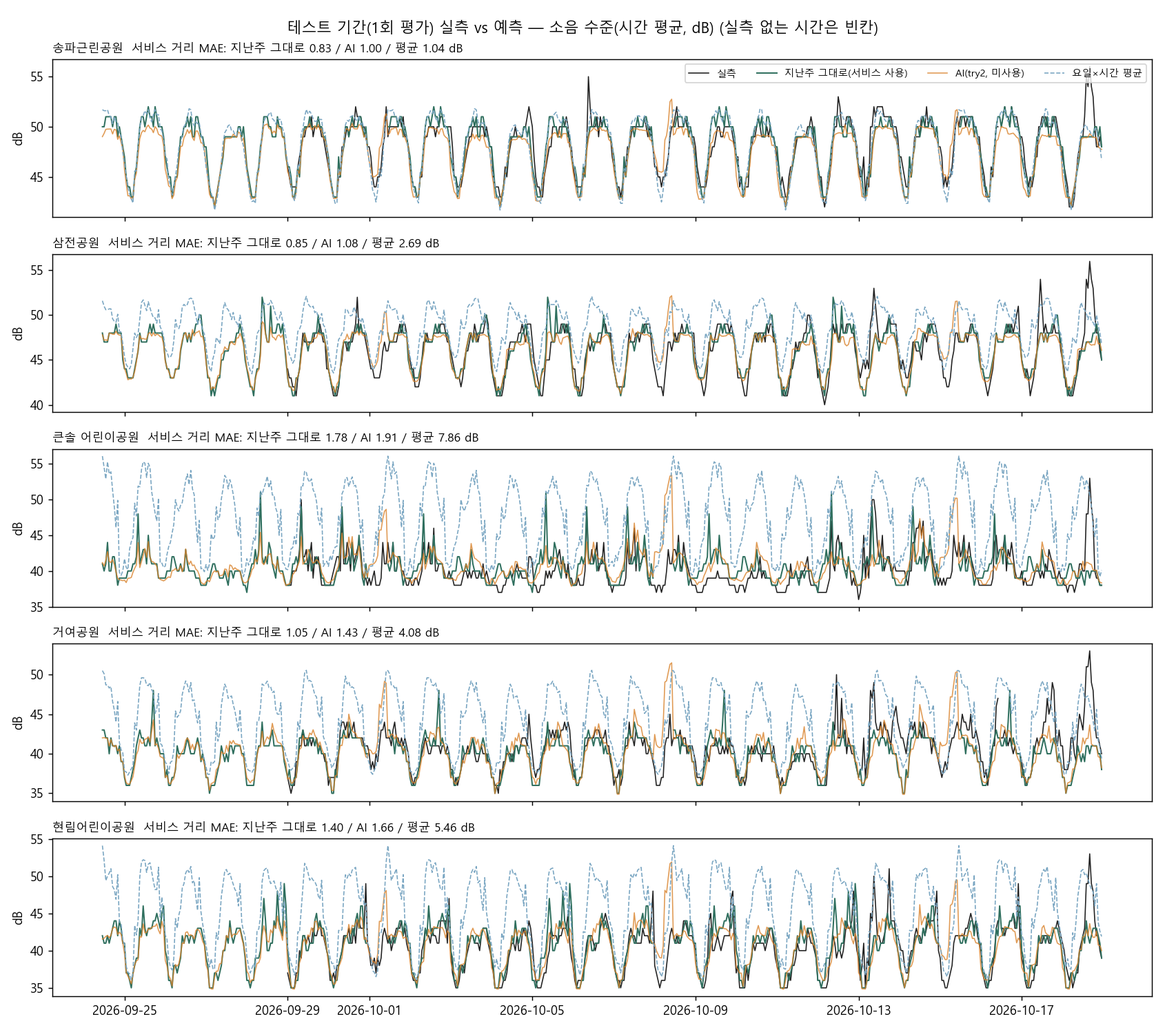
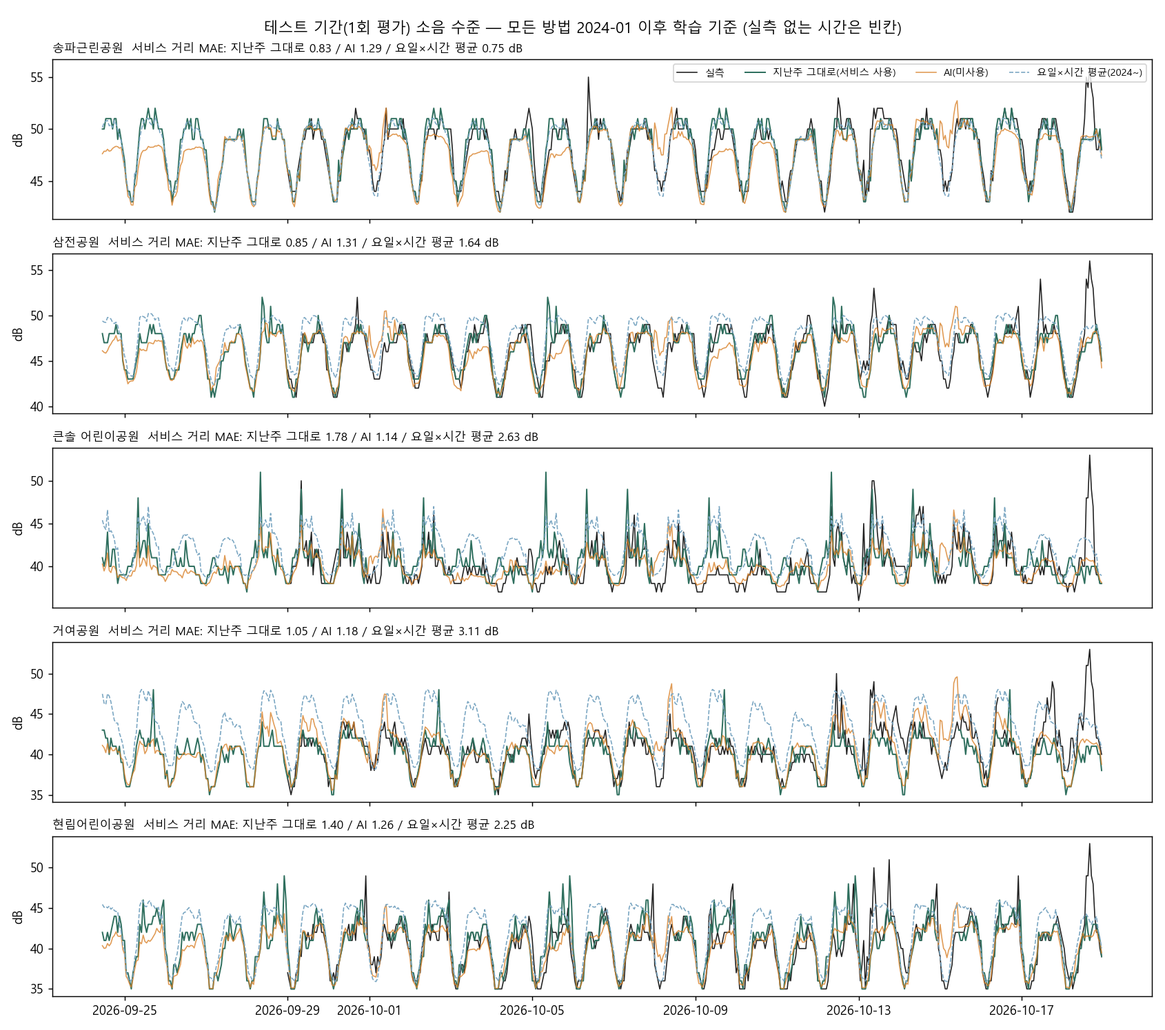
성능 표 기준 통일(2024-01 이후), 카드 2층 구조와 한 줄 요약, 쉬운 말

diff --git a/public/app.js b/public/app.js
@@ -104,23 +104,44 @@ function render() {
     .map((r, i) => {
       const s = r.site, f = r.f;
       const confL = s.confidence.level, confS = s.confidence.spike;
+      const spikeName = i === 0 ? "돌발 소음 지수 <small>(갑자기 커지는 소리 정도)</small>" : "돌발 소음 지수";
       return `<li class="rec">
+        <p class="summary">${summaryLine(f)}</p>
         <div class="rec-head"><span class="rank">${i + 1}</span><span class="rec-title">${s.name}</span>
           <span class="rec-time">${fmtTime(f.t)}</span></div>
         <div class="facts">
-          ${fact("pred", "돌발 소음 지수 <span class='tag pred'>AI 예측</span>", `${n1(f.spike)} dB`, `테스트 오차(MAE) ±${s.mae.spike.used.toFixed(1)} dB · 신뢰도 <span class="tag conf-${confS}">${confS}</span>`)}
-          ${fact("obs", "소음 수준 <span class='tag obs'>지난주 실측</span>", `${n1(f.level)} dB`, `${fmtDay(sourceDay(f.t.slice(0, 10)))} 같은 시각 실측 · 이 방식의 테스트 오차 ±${s.mae.level.used.toFixed(1)} dB · 신뢰도 <span class="tag conf-${confL}">${confL}</span>`)}
+          ${fact("pred", `${spikeName} <span class='tag pred'>AI 예측</span>`, `${n1(f.spike)} dB · ${grade("spike", f.spike)}`, `신뢰도 <span class="tag conf-${confS}">${confS}</span>`)}
+          ${fact("obs", "소음 수준 <span class='tag obs'>지난주 실측</span>", `${n1(f.level)} dB · ${grade("level", f.level)}`, `${fmtDay(sourceDay(f.t.slice(0, 10)))} 같은 시각 실측 · 신뢰도 <span class="tag conf-${confL}">${confL}</span>`)}
           ${fact("obs", "최근 실측 <span class='tag obs'>실측</span>", `평균 ${s.recent.level} · 최대 ${s.recent.max} dB`, `${fmtTime(s.recent.t)} 측정`)}
           ${fact("obs", "최근 1주 평균 <span class='tag obs'>실측</span>", `${n1(s.recent_week.level)} dB · 돌발 ${n1(s.recent_week.spike)} dB`, `${lwk} 7일`)}
-          ${fact("", "센서 위치", `공원 경계에서 ${Math.round(s.dist_m)}m`, `${s.sensor_address} (${s.sensor_serial})`)}
-          ${fact("", "부담 점수", r.score.toFixed(1), `= ${WEIGHT[cond.level]}×(${n1(f.level)}−35) + ${WEIGHT[cond.spike]}×${n1(f.spike)}`)}
+          ${fact("", "센서 위치", `공원 경계에서 ${Math.round(s.dist_m)}m`, "")}
         </div>
         ${dayBars(s, cond, r.hour)}
-        <p class="why">돌발 소음 지수는 단순 요일·시간 평균으로는 같은 시각 ${f.spike_baseline == null ? "<span class='tag na'>정보 부족</span>" : `${n1(f.spike_baseline)} dB`}입니다.
-        이 장소의 돌발 지수 테스트 오차는 AI ${s.mae.spike.used.toFixed(2)} dB, 단순 평균 ${s.mae.spike.baseline.toFixed(2)} dB였습니다.</p>
+        <details class="more">
+          <summary>자세히 보기</summary>
+          <div class="facts">
+            ${fact("pred", "돌발 소음 지수 평균 오차", `AI ±${s.mae.spike.used.toFixed(2)} dB`, `같은 기간 요일·시간 평균 ±${s.mae.spike.baseline.toFixed(2)} dB (테스트 기간, 이 장소)`)}
+            ${fact("obs", "소음 수준 평균 오차", `지난주 그대로 ±${s.mae.level.used.toFixed(2)} dB`, `요일·시간 평균 ±${s.mae.level.baseline.toFixed(2)} · AI ±${s.mae.level.ai.toFixed(2)} dB (테스트 기간, 이 장소)`)}
+            ${fact("", "단순 평균이었다면", `돌발 ${f.spike_baseline == null ? "정보 부족" : n1(f.spike_baseline) + " dB"} · 소음 ${f.level_baseline == null ? "정보 부족" : n1(f.level_baseline) + " dB"}`, "같은 요일·시각의 2024년 이후 평균")}
+            ${fact("", "부담 점수", r.score.toFixed(1), `= ${WEIGHT[cond.level]}×(${n1(f.level)}−35) + ${WEIGHT[cond.spike]}×${n1(f.spike)}`)}
+            ${fact("", "센서", s.sensor_serial, s.sensor_address)}
+          </div>
+        </details>
       </li>`;
     })
     .join("");
+}
+
+// 보호자용 등급: 테스트 기간 실측 분포의 1/3·2/3 분위값 기준(grade_cuts)
+function grade(t, v) {
+  if (v == null) return "정보 부족";
+  const [a, b] = DATA.grade_cuts[t];
+  return v < a ? "적은 편" : v < b ? "보통" : "많은 편";
+}
+
+function summaryLine(f) {
+  const lv = grade("level", f.level), sp = grade("spike", f.spike);
+  return `소리 크기 <b>${lv}</b>, 갑자기 커지는 소리 <b>${sp}</b>`;
 }
 
 function renderPerf() {
@@ -129,17 +150,17 @@ function renderPerf() {
   const sp = T.spike, lv = T.level;
   const gh = "https://github.com/neogeo0701/calm-map-sdot/blob/main/";
   $("#perf").innerHTML = `
-    <p class="muted">시간순으로 학습·검증·테스트를 나눴습니다. 검증 ${DATA.split.val[0].slice(5, 10)}~${DATA.split.val[1].slice(5, 10)}, 테스트 ${DATA.split.test[0].slice(5, 10)}~${DATA.split.test[1].slice(5, 10)}.
-    방법은 검증 구간으로만 골랐고, 테스트는 마지막에 한 번만 평가했습니다. 아래는 테스트 결과로, 화면과 같은 조건(데이터 마지막 시각에서 ${DATA.horizon_hours[0]}~${DATA.horizon_hours[1]}시간 뒤)의 평균 절대 오차(MAE, dB, 낮을수록 정확)입니다. 5개 센서, 실측 ${sp.n}시간.</p>
+    <p class="muted">시간순으로 학습·검증·테스트를 나눴습니다. 학습 ${DATA.spike_history_start.slice(0, 7)}~, 검증 ${DATA.split.val[0].slice(5, 10)}~${DATA.split.val[1].slice(5, 10)}, 테스트 ${DATA.split.test[0].slice(5, 10)}~${DATA.split.test[1].slice(5, 10)}.
+    방법은 검증 구간으로만 골랐고, 테스트는 마지막에 한 번만 평가했습니다. 아래는 테스트 결과로, 화면과 같은 조건(데이터 마지막 시각에서 ${DATA.horizon_hours[0]}~${DATA.horizon_hours[1]}시간 뒤)의 <b>평균 오차</b>(dB, 예측과 실제의 차이 평균, 낮을수록 정확)입니다. 모든 방법이 같은 학습 기간(2024-01 이후)·같은 테스트 시간을 씁니다. 5개 센서, 실측 ${sp.n}시간.</p>
     <table><thead><tr><th>대상</th><th>AI</th><th>요일·시간<br>평균</th><th>직전 4주<br>평균</th><th>지난주<br>그대로</th></tr></thead>
     <tbody>
     <tr><td>돌발 소음 지수<br><small>화면: AI</small></td>${c(sp.ai, true)}${c(sp.baseline)}${c(sp.ref_recent4w_mean)}${c(sp.ref_last_week_naive)}</tr>
     <tr><td>소음 수준<br><small>화면: 지난주 그대로</small></td>${c(lv.ai)}${c(lv.baseline)}${c(lv.ref_recent4w_mean)}${c(lv.ref_last_week_naive, true)}</tr>
     </tbody></table>
-    <p class="muted"><b>AI의 역할은 돌발 소음 지수 예측입니다.</b> 돌발 지수 AI는 ${DATA.spike_history_start.slice(0, 7)}부터 약 34개월 실측으로 학습했고, 월·주차·전년 같은 시기 값 같은 계절 정보도 씁니다.
-    네 방법 중 오차가 가장 작지만, 같은 긴 기간으로 만든 요일·시간 평균과의 차이는 ${(sp.baseline - sp.ai).toFixed(2)}dB로 거의 같습니다. "지난주 그대로"보다는 ${(100 * (sp.ref_last_week_naive - sp.ai) / sp.ref_last_week_naive).toFixed(1)}% 작습니다.
-    소음 수준은 AI가 "지난주 그대로"를 넘지 못해(검증 ${V.level.ai_try2.toFixed(2)} vs ${V.level.ref_last_week_naive.toFixed(2)}dB) 화면에는 지난주 같은 요일·시각 실측값을 그대로 씁니다(이 행의 비교는 2026-07-13부터의 자료 기준).
-    결측 시간은 보간하지 않고 평가에서 뺐습니다. 자세한 수치: <a href="${gh}model/attempts/long_history/test_metrics.json">돌발 지수</a> · <a href="${gh}model/metrics.json">소음 수준</a></p>`;
+    <p class="muted"><b>AI의 역할은 돌발 소음 지수(갑자기 커지는 소리 정도) 예측입니다.</b> AI는 약 34개월 실측과 월·주차·전년 같은 시기 값 같은 계절 정보로 학습했습니다.
+    네 방법 중 평균 오차가 가장 작지만, 요일·시간 평균과의 차이는 ${(sp.baseline - sp.ai).toFixed(2)}dB로 거의 같습니다. "지난주 그대로"보다는 ${(100 * (sp.ref_last_week_naive - sp.ai) / sp.ref_last_week_naive).toFixed(1)}% 작습니다.
+    소음 수준은 AI가 검증에서는 "지난주 그대로"보다 나았지만(${V.level.ai_S1.toFixed(2)} vs ${V.level.ref_last_week_naive.toFixed(2)}dB) 테스트에서 못 미쳐(${lv.ai.toFixed(2)} vs ${lv.ref_last_week_naive.toFixed(2)}dB) 화면에는 지난주 같은 요일·시각 실측값을 그대로 씁니다.
+    결측 시간은 보간하지 않고 평가에서 뺐습니다. 자세한 수치: <a href="${gh}model/attempts/long_history/test_metrics.json">test_metrics.json</a></p>`;
 }
 
 function renderMap() {

diff --git a/demo/slides.html b/demo/slides.html
@@ -40,16 +40,16 @@ img{max-width:100%;max-height:470px;object-fit:contain;background:#fff;border:1p
   <img src="test_actual_vs_pred_spike.png">
 </section>
 <section id="mae">
-  <h2>테스트(마지막 1회 평가) · 화면과 같은 9~16일 앞 예측의 오차 MAE</h2>
+  <h2>테스트(마지막 1회 평가) · 화면과 같은 9~16일 앞 예측의 평균 오차</h2>
   <div class="grid">
     <div><p>돌발 소음 지수 — <b>AI 사용</b></p><div class="big">1.48 dB</div>
       <p>요일·시간 평균 1.49 · 직전 4주 1.61 · 지난주 그대로 1.86 dB<br>
       <b>지난주 그대로·직전 4주보다 작고, 긴 기간(2024~) 요일·시간 평균과는 거의 같음</b> <span class="muted">(약 34개월 실측 + 계절 정보로 학습)</span></p></div>
     <div><p>소음 수준 — <b>AI 미사용</b></p><div class="big" style="color:#5b6168">1.18 dB</div>
-      <p>"지난주 그대로" 1.18 vs AI 1.41 dB<br>
+      <p>"지난주 그대로" 1.18 vs AI 1.24 dB<br>
       <b>AI가 단순 방법을 넘지 못함</b> → 화면은 지난주 같은 시각 실측값 사용</p></div>
   </div>
-  <p class="muted">시간순 3분할(검증 2.1주 · 테스트 3.5주, 학습은 그 이전). 방법·교체 규칙은 테스트 전에 정하고 테스트는 한 번만 평가 · 5개 센서 · 실측 840시간</p>
+  <p class="muted">모든 방법 같은 학습 기간(2024-01 이후) · 시간순 3분할(검증 2.1주 · 테스트 3.5주, 학습은 그 이전). 방법·교체 규칙은 테스트 전에 정하고 테스트는 한 번만 평가 · 5개 센서 · 실측 840시간</p>
 </section>
 <section id="importance">
   <h2>돌발 소음 지수 AI가 주로 본 것: 1주 전 같은 시각, 1주 전 주간 평균, 시간대 (계절 정보 약 12%)</h2>

diff --git a/public/index.html b/public/index.html
@@ -61,6 +61,11 @@
       <summary>순위는 이렇게 계산해요</summary>
       <p>각 장소·시간마다 <b>부담 점수 = 소리 크기 가중치 × (소음 수준 − 35dB) + 갑작스러운 소리 가중치 × 돌발 소음 지수</b>를 계산하고, 점수가 낮은 순서로 고릅니다. 한 장소에서는 가장 낮은 시간 하나만 추천합니다.</p>
       <p>가중치: 낮음 0.5 · 보통 1 · 높음 2. 35dB는 이 센서들이 기록한 가장 낮은 값(측정 하한)입니다. 값이 없는 시간("정보 부족")은 후보에서 뺍니다. 돌발 소음 지수는 AI 예측값, 소음 수준은 AI가 단순 방법을 넘지 못해 지난주 같은 요일·시각 실측값입니다.</p>
+      <p><b>카드 맨 위 한 줄 요약</b>은 값을 세 단계로 나눈 것입니다. 기준은 테스트 기간(2026-09-24~10-18) 5개 센서의 실제 측정값 2,395시간을 크기 순으로 세운 1/3·2/3 지점입니다.
+      소리 크기(소음 수준): 41dB 미만 <b>적은 편</b> · 41~45dB 미만 <b>보통</b> · 45dB 이상 <b>많은 편</b>.
+      갑자기 커지는 소리(돌발 소음 지수): 3dB 미만 <b>적은 편</b> · 3~4dB 미만 <b>보통</b> · 4dB 이상 <b>많은 편</b>.
+      측정값이 정수 dB라 경계에 같은 값이 몰려, 실제 비율은 소리 크기 32·34·34%, 갑자기 커지는 소리 25·27·48%입니다.</p>
+      <p>평균 오차, 단순 평균과의 비교, 부담 점수 계산식, 센서 번호는 각 카드의 "자세히 보기"에 있습니다.</p>
       <p>코드: <a href="https://github.com/neogeo0701/calm-map-sdot/blob/main/public/app.js">public/app.js</a>의 <code>score()</code>, <code>recommend()</code></p>
     </details>
   </section>

diff --git a/public/style.css b/public/style.css
@@ -101,3 +101,8 @@ html.big .facts { grid-template-columns: 1fr; }
 .rsum { display: flex; flex-wrap: wrap; gap: 6px 14px; margin: 0 0 12px; font-size: 0.95em; }
 .rsum span { background: var(--accent-soft); border-radius: 8px; padding: 4px 10px; }
 .rsum b { color: var(--accent); margin-right: 2px; }
+.summary { margin: 0 0 8px; padding: 8px 10px; background: var(--accent-soft); border-radius: 8px; font-size: 1.02em; }
+.summary b { color: var(--accent); }
+.more { margin-top: 10px; border-top: 1px dashed var(--line); padding-top: 6px; }
+.more summary { cursor: pointer; font-weight: 700; color: var(--accent); font-size: 0.92em; padding: 6px 0; }
+.more .facts { margin-top: 6px; }

diff --git a/demo/record_demo.py b/demo/record_demo.py
@@ -111,13 +111,13 @@ with sync_playwright() as p:
     r.sub("초록 = 공원, 주황 = 센서. 지도에는 선정 장소와 센서만 표시합니다", 7,
           lambda: (page.locator(".leaflet-marker-icon").first.click(), page.wait_for_timeout(400), r.hold(0.1)))
 
-    # 0:55 예측 결과와 기준 모델 대비 MAE
+    # 0:55 예측 결과와 기준 모델 대비 평균 오차(MAE)
     r.slide("test")
     r.sub("2024년부터 약 34개월 실측으로 학습, 검증 2.1주 · 테스트 3.5주로 나눠 확인했습니다", 9)
     r.sub("돌발 소음 지수: 검정 = 실측, 주황 = AI 예측, 파란 점선 = 요일·시간 평균", 7)
     r.slide("mae")
-    r.sub("돌발 소음 지수: AI 1.48dB로 지난주 그대로(1.86)보다 작고, 긴 기간 평균(1.49)과는 거의 같습니다", 8)
-    r.sub("소음 수준은 AI(1.41)가 '지난주 그대로'(1.18dB)를 넘지 못해 지난주 값을 씁니다", 9)
+    r.sub("돌발 소음 지수(갑자기 커지는 소리 정도) 평균 오차: AI 1.48dB, 지난주 그대로 1.86, 긴 기간 평균 1.49", 8)
+    r.sub("소음 수준은 AI(1.24)가 '지난주 그대로'(1.18dB)를 넘지 못해 지난주 값을 씁니다", 9)
     r.slide("importance")
     r.sub("돌발 지수 AI가 주로 본 것: 1주 전 같은 시각, 1주 전 주간 평균, 시간대", 7)
 
@@ -128,11 +128,18 @@ with sync_playwright() as p:
     page.wait_for_timeout(1200)
     r.sub("조건 3개: 소리 크기 민감도, 갑작스러운 소리 민감도, 요일·시간대", 6)
     r.sub("10월 31일(토) 오후 15~18시, 둘 다 '보통'으로 추천 3곳", 6, lambda: r.scroll_to("#r-title", 1.2, 20))
-    r.sub("근거 카드: 값의 출처(AI 예측 / 지난주 실측)와 오차, 최근 실측, 센서 거리, 점수식", 7, lambda: r.scroll_to("#recs .rec .facts", 1.2, 150))
+    r.sub("카드 맨 위 한 줄 요약: '소리 크기 적은 편, 갑자기 커지는 소리 많은 편'", 7, lambda: r.scroll_to("#recs li:first-child .summary", 1.2, 110))
+    r.sub("그 아래 값의 출처(AI 예측 / 지난주 실측), 신뢰도, 최근 실측, 센서 거리", 6, lambda: r.scroll_to("#recs li:first-child .facts", 1.0, 150))
+    r.sub("심사 포인트: '자세히 보기'를 펼치면 평균 오차, 단순 평균 비교, 점수 계산식, 센서 번호", 10,
+          lambda: (r.scroll_to("#recs li:first-child details", 1.0, 160), r.click("#recs li:first-child details summary"),
+                   r.scroll_to("#recs li:first-child details", 0.8, 110)))
+    r.sub("보호자에게는 접어 두고 요약만 먼저 보여 줍니다", 3,
+          lambda: (r.click("#recs li:first-child details summary", 0.5), r.scroll_to("#recs li:first-child", 0.8, 110)))
     r.sub("시연 1: 갑작스러운 소리에 더 예민한 아이라면", 4, lambda: r.scroll_to("#cond", 1.0))
     r.sub("소리 크기 '낮음', 갑작스러운 소리 '높음'으로 바꿉니다", 6,
           lambda: (r.click(radio("level", "low")), r.click(radio("spike", "high"))))
-    r.sub("3위가 거여공원(16시) → 삼전공원(15시)으로 바뀌었습니다", 9, lambda: r.scroll_to("#r-title", 1.2, 20))
+    r.sub("3위가 거여공원(16시·갑자기 커지는 소리 많은 편) → 삼전공원(15시·보통)으로 바뀌었습니다", 9,
+          lambda: (r.scroll_to("#r-title", 1.2, 20), r.hold(2.5), r.scroll_to("#recs li:nth-child(3)", 1.2, 110)))
     r.sub("시연 2: 수요일 오전, 계속되는 소리에 더 예민한 아이라면", 4, lambda: r.scroll_to("#cond", 1.0))
     r.sub("10/28(수), 오전 9~12시, 소리 크기 '높음', 갑작스러운 소리 '낮음'", 7,
           lambda: (r.click(radio("day", "2026-10-28")), r.click(radio("slot", "9-12")),

diff --git a/demo/build_slides.py b/demo/build_slides.py
@@ -17,6 +17,8 @@ NT = m["test"]["spike"]["n"]
 # 돌발 소음 지수는 장기 이력 실험 결과로 교체(DECISIONS.md)
 LH = json.load(open("model/attempts/long_history/test_metrics.json", encoding="utf-8"))
 _s = LH["results"]["spike"]["service_horizon_mae"]
+_l = LH["results"]["level"]["service_horizon_mae"]  # 성능 표 기준 통일(2024-01 이후 학습)
+T["level"] = {"ai_try2": _l["ai_S1"], "baseline": _l["baseline"], "ref_recent4w_mean": _l["ref_recent4w_mean"], "ref_last_week_naive": _l["ref_last_week_naive"]}
 T["spike"] = {"ai_try1": _s["ai_S1"], "baseline": _s["baseline"], "ref_recent4w_mean": _s["ref_recent4w_mean"], "ref_last_week_naive": _s["ref_last_week_naive"]}
 shutil.copy("model/feature_importance.png", "demo/feature_importance.png")
 
@@ -82,7 +84,7 @@ img{{max-width:100%;max-height:470px;object-fit:contain;background:#fff;border:1
   <img src="test_actual_vs_pred_spike.png">
 </section>
 <section id="mae">
-  <h2>테스트(마지막 1회 평가) · 화면과 같은 9~16일 앞 예측의 오차 MAE</h2>
+  <h2>테스트(마지막 1회 평가) · 화면과 같은 9~16일 앞 예측의 평균 오차</h2>
   <div class="grid">
     <div><p>돌발 소음 지수 — <b>AI 사용</b></p><div class="big">{T['spike']['ai_try1']:.2f} dB</div>
       <p>요일·시간 평균 {T['spike']['baseline']:.2f} · 직전 4주 {T['spike']['ref_recent4w_mean']:.2f} · 지난주 그대로 {T['spike']['ref_last_week_naive']:.2f} dB<br>
@@ -91,7 +93,7 @@ img{{max-width:100%;max-height:470px;object-fit:contain;background:#fff;border:1
       <p>"지난주 그대로" {T['level']['ref_last_week_naive']:.2f} vs AI {T['level']['ai_try2']:.2f} dB<br>
       <b>AI가 단순 방법을 넘지 못함</b> → 화면은 지난주 같은 시각 실측값 사용</p></div>
   </div>
-  <p class="muted">시간순 3분할(검증 2.1주 · 테스트 3.5주, 학습은 그 이전). 방법·교체 규칙은 테스트 전에 정하고 테스트는 한 번만 평가 · 5개 센서 · 실측 {NT}시간</p>
+  <p class="muted">모든 방법 같은 학습 기간(2024-01 이후) · 시간순 3분할(검증 2.1주 · 테스트 3.5주, 학습은 그 이전). 방법·교체 규칙은 테스트 전에 정하고 테스트는 한 번만 평가 · 5개 센서 · 실측 {NT}시간</p>
 </section>
 <section id="importance">
   <h2>돌발 소음 지수 AI가 주로 본 것: 1주 전 같은 시각, 1주 전 주간 평균, 시간대 (계절 정보 약 12%)</h2>

diff --git a/model/attempts/long_history/apply.py b/model/attempts/long_history/apply.py
@@ -110,3 +110,32 @@ json.dump(P, open("public/predictions.json", "w", encoding="utf-8"), ensure_asci
 print("spike None:", sum(f["spike"] is None for s in P["sites"] for f in s["forecast"]))
 print({s["name"]: (s["mae"]["spike"], s["confidence"]["spike"]) for s in P["sites"]})
 print("top importance:", [names.get(a, a) for a, _ in items[::-1][:5]])
+
+
+# --- (2026-10-27 추가) 성능 표 기준 통일 + 보호자용 3분위 등급
+LT = test["results"]["level"]
+LVd = val["results"]["level"]["service_horizon_mae"]
+lv = LT["service_horizon_mae"]
+P["test"]["level"] = {"n": LT["n_service_hours"], "ai": lv[f"ai_{NAME}"], "baseline": lv["baseline"], "ref_recent4w_mean": lv["ref_recent4w_mean"],
+                      "ref_last_week_naive": lv["ref_last_week_naive"], "ref_last_year_same": lv["ref_last_year_same"]}
+P["validation"]["level"] = LVd
+P["sources"]["level"] = "model/attempts/long_history/test_metrics.json (화면 값은 지난주 그대로)"
+# 소음 수준 같은 시각 요일×시간 평균(2024-01 이후)
+trl = d[(d.measured_at < start) & d.level.notna()]
+gl = trl.groupby(["serial", "dow", "hour"])["level"].agg(["mean", "count"])
+jl = d.join(gl, on=["serial", "dow", "hour"]).set_index(["serial", "measured_at"])
+for site in P["sites"]:
+    ser = site["sensor_serial"]
+    b = LT["by_sensor"][ser]
+    site["mae"]["level"] = {"used": b["ref_last_week_naive"], "baseline": b["baseline"], "ai": b[f"ai_{NAME}"]}
+    for f in site["forecast"]:
+        r = jl.loc[(ser, pd.Timestamp(f["t"]))]
+        f["level_baseline"] = round(float(r["mean"]), 1) if r["count"] >= 3 else None
+# 등급 기준: 테스트 기간(2026-09-24 11시 ~ 10-18) 5개 센서 실측 분포의 3분위
+tw = d[(d.measured_at >= R.T_TEST) & (d.measured_at <= t1)]
+P["grade_cuts"] = {"period": [str(R.T_TEST)[:16], str(t1)[:16]],
+                   "level": [round(float(tw["level"].quantile(q)), 1) for q in (1 / 3, 2 / 3)],
+                   "spike": [round(float(tw.spike.quantile(q)), 1) for q in (1 / 3, 2 / 3)],
+                   "n": {"level": int(tw["level"].notna().sum()), "spike": int(tw.spike.notna().sum())}}
+json.dump(P, open("public/predictions.json", "w", encoding="utf-8"), ensure_ascii=False, separators=(",", ":"))
+print("unified test.level:", P["test"]["level"], "grade_cuts:", P["grade_cuts"])

diff --git a/model/attempts/long_history/plot_level.py b/model/attempts/long_history/plot_level.py
@@ -1,0 +1,32 @@
+"""성능 표 기준 통일(2024-01 이후 학습)에 맞춘 테스트 기간 소음 수준 그래프. 사용법(저장소 루트): python model/attempts/long_history/plot_level.py"""
+import json
+import shutil
+
+import matplotlib
+import pandas as pd
+
+matplotlib.use("Agg")
+import matplotlib.pyplot as plt
+
+plt.rcParams["font.family"] = "Malgun Gothic"
+plt.rcParams["axes.unicode_minus"] = False
+HERE = "model/attempts/long_history"
+T = json.load(open(f"{HERE}/test_metrics.json", encoding="utf-8"))["results"]["level"]["by_sensor"]
+sites = json.load(open("data/processed/selected_sites.json", encoding="utf-8"))
+tp = pd.read_csv(f"{HERE}/test_predictions.csv", parse_dates=["measured_at"])
+fig, axes = plt.subplots(len(sites), 1, figsize=(13, 2.3 * len(sites)), sharex=True)
+for ax, s in zip(axes, sites):
+    q = tp[tp.serial == s["sensor_serial"]]
+    b = T[s["sensor_serial"]]
+    ax.plot(q.measured_at, q.level_actual, color="#222", lw=0.9, label="실측")
+    ax.plot(q.measured_at, q.level_ref_last_week_naive, color="#2f6f5e", lw=1.1, label="지난주 그대로(서비스 사용)")
+    ax.plot(q.measured_at, q.level_ai_S1, color="#d9822b", lw=0.9, alpha=0.8, label="AI(미사용)")
+    ax.plot(q.measured_at, q.level_baseline, color="#7aa6c2", lw=0.9, ls="--", label="요일×시간 평균(2024~)")
+    ax.set_title(f"{s['name']}  서비스 거리 MAE: 지난주 그대로 {b['ref_last_week_naive']:.2f} / AI {b['ai_S1']:.2f} / 요일×시간 평균 {b['baseline']:.2f} dB", fontsize=9.5, loc="left")
+    ax.set_ylabel("dB")
+axes[0].legend(loc="upper right", fontsize=8, ncol=4)
+fig.suptitle("테스트 기간(1회 평가) 소음 수준 — 모든 방법 2024-01 이후 학습 기준 (실측 없는 시간은 빈칸)", fontsize=12)
+fig.tight_layout()
+fig.savefig(f"{HERE}/test_actual_vs_pred_level.png", dpi=130)
+shutil.copy(f"{HERE}/test_actual_vs_pred_level.png", "model/test_actual_vs_pred_level.png")
+print("ok")

diff --git a/DECISIONS.md b/DECISIONS.md
@@ -62,3 +62,15 @@
 - 2026-10-27 | 교체로 추천이 일부 바뀜: 시연 2(10/28 오전, 소리 크기 높음)의 1위 거여공원 11시 → 10시. 자막 수정. 시연 1은 그대로 | 화면과 자막 일치
 - 2026-10-27 | 계절성 피처 효과를 따로 떼어 보는 추가 실험(ablation)은 하지 않음 → "개선이 계절 피처 때문인지 긴 학습 기간 때문인지 구분하지 않았다"고 명시 | 테스트 구간을 다시 쓰면 1회 평가 원칙이 깨짐
 - 2026-10-27 | 교체본을 push → Pages 배포 확인(배포 predictions.json = 로컬) 후 배포 URL로 데모 재녹화(3분 8초, 7.4MB)·모바일 스크린샷 재촬영, 자동 대조 57/57 일치 | 장기 이력 지시 5번
+
+## 2026-10-27 성능 표 기준 통일 · 카드 2층 구조 · 쉬운 말
+- 2026-10-27 | 확인: 4번 표 소음 수준 행의 요일·시간 평균 4.22와 AI 1.41은 2026-07-13 이후 자료로 학습한 이전 3분할 실험 값(옛 기준). 돌발 지수 행은 2024-01 이후 기준 → 기준 불일치 확인
+- 2026-10-27 | 통일 방법: 표의 모든 값을 장기 이력 실험(`model/attempts/long_history/test_metrics.json`, 학습 2024-01 이후, 같은 테스트 구간·실측 840시간)으로 맞춤. 소음 수준: 요일·시간 평균 4.22 → 2.08, AI 1.41(이전 try2) → 1.24(장기 이력 S1, 이미 1회 테스트된 값), 직전 4주 1.87·지난주 그대로 1.18은 학습 기간과 무관해 그대로 | 사용자 지시. AI 열도 같은 학습 기간이어야 비교가 맞음. 새 테스트 실행 없음(기존 1회 평가 결과 재사용)
+- 2026-10-27 | 소음 수준 화면 방법은 그대로 "지난주 그대로". 근거 문구를 장기 이력 기준으로 고침: 검증에서는 AI가 나았으나(1.19 vs 1.44) 테스트에서 못 미침(1.24 vs 1.18) → 앞서 기록한 교체 판정(테스트 기준)대로 교체 안 함 | 사실 그대로 기술
+- 2026-10-27 | 카드의 소음 수준 "단순 평균" 장소별 오차와 같은 시각 요일·시간 평균 값도 2024-01 이후 기준으로 교체 | 표와 카드 기준 일치
+- 2026-10-27 | 보호자용 등급: 테스트 기간(09-24 11시 ~ 10-18) 5개 센서 실측 2,395시간의 1/3·2/3 분위값 → 소음 수준 41·45dB, 갑자기 커지는 소리(돌발 지수) 3·4dB. 규칙: 1/3 분위 미만 "적은 편", 1/3 이상 2/3 미만 "보통", 2/3 이상 "많은 편"(두 대상 같은 규칙) | 원자료가 정수 dB라 경계에 같은 값이 몰려 정확히 1/3씩 나뉘지 않음. 실제 비율: 소음 수준 31.6/34.1/34.3%, 돌발 지수 25.1/27.1/47.7% → 화면 설명에 비율까지 적음. "이하" 규칙(돌발 52/21/27%)보다 소음 수준이 1/3에 가까운 쪽을 택하고 두 대상 규칙을 하나로 통일
+- 2026-10-27 | 카드 2층: 위층 = 한 줄 요약(등급 2개) + 장소·시간 + 값(출처 라벨·신뢰도) + 최근 실측 + 센서 거리 + 하루 막대. "자세히 보기"(접힘) = 평균 오차(MAE)·단순 평균 비교·부담 점수와 계산식·센서 ID·센서 주소. 수치는 하나도 지우지 않음 | 사용자 지시
+- 2026-10-27 | 쉬운 말: 화면에서 "MAE" 표기를 "평균 오차"로 바꿈(링크 파일명 metrics.json은 유지). 돌발 소음 지수는 화면에 처음 나오는 곳(1번 카드 요약 아래 값 이름)에 "갑자기 커지는 소리 정도"로 풀어 씀 | 사용자 지시
+- 2026-10-27 | 문서 통일: 성과보고서·별첨(5절 표·장소별 표·그림 2를 2024-01 이후 기준으로 다시 그림, 4절 이전 실험 표는 "선택 과정 기록"으로 표시)·README·심사 프롬프트·데모 슬라이드·자막의 소음 수준 행을 AI 1.24 / 요일·시간 평균 2.08 / 직전 4주 1.87 / 지난주 그대로 1.18로 교체. 메일 초안은 돌발 지수 수치만 있어 이미 일치. 이전 그림은 `model/attempts/three_split_figures/`에 보존 | 사용자 지시 1번
+- 2026-10-27 | 데모: 근거 카드 구간에서 한 줄 요약을 먼저 보여 주고, "심사 포인트" 자막 구간에서만 1번 카드 "자세히 보기"를 펼쳤다가 다시 접음. 시연 1 자막에 요약 등급 변화(거여공원 많은 편 → 삼전공원 보통)를 함께 표기 | 사용자 지시 4번
+- 2026-10-27 | 자동 대조에 성능표 기준 통일(8개), 등급 분위 재계산·화면 설명 비율 일치(6개), 화면 "MAE" 표기 0건(2개) 검사 추가 | 지시 1~3번 검증
